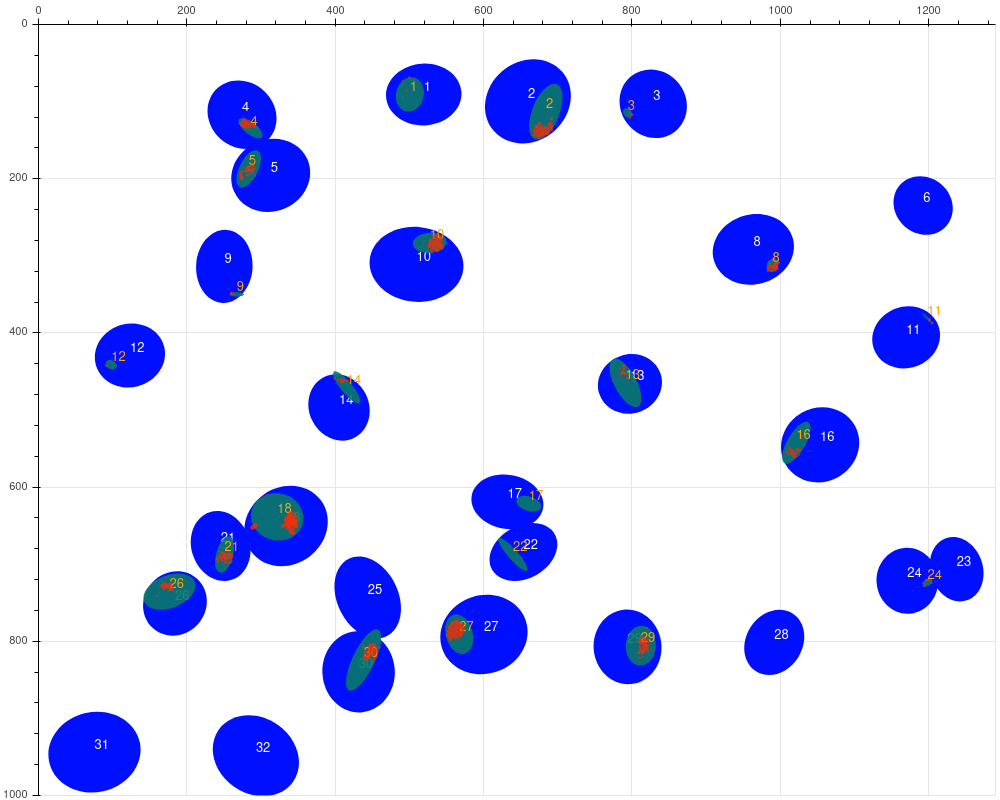
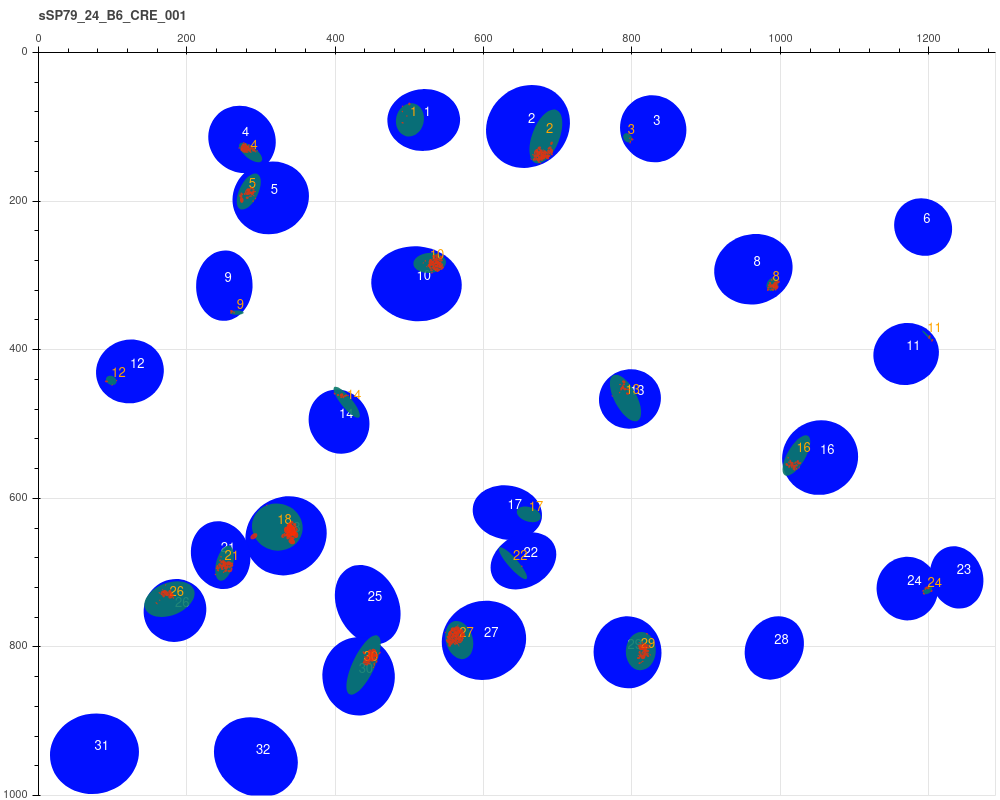
add image name to figure titles

diff --git a/puncta_counter/describe_puncta.py b/puncta_counter/describe_puncta.py
@@ -45,7 +45,7 @@ def parse_args(args=None):
     parser.add_argument("-a", "--algos", dest="algos", nargs='+',
     	                default=['confidence_ellipse',
     	                		 'min_vol_ellipse',
-    	                		 # 'circle',  # deprecated
+    	                		 'circle',  # deprecated
     	                		 ],
                         action="store", required=False, help="limit scope for testing")
 
@@ -134,6 +134,7 @@ def main(args=None):
                 nuclei=nuclei_subset.loc[(nuclei_subset['image_number']==image_number)],
                 ellipses=ellipses.loc[(ellipses['image_number']==image_number)],
                 puncta=puncta_subset.loc[(puncta_subset['image_number']==image_number)],
+                title=title
             )
 
             save_plot_as_png(plot, f"figures/confidence_ellipse/{title}.png")
@@ -154,6 +155,7 @@ def main(args=None):
                 nuclei=nuclei_subset.loc[(nuclei_subset['image_number']==image_number)],
                 ellipses=ellipses.loc[(ellipses['image_number']==image_number)],
                 puncta=puncta_subset.loc[(puncta_subset['image_number']==image_number)],
+                title=title
             )
 
             save_plot_as_png(plot, f"figures/min_vol_ellipse/{title}.png")
@@ -177,6 +179,7 @@ def main(args=None):
                 nuclei=nuclei_subset.loc[(nuclei_subset['image_number']==image_number)],
                 circles=circles.loc[(circles['image_number']==image_number)],
                 puncta=puncta_subset.loc[(puncta_subset['image_number']==image_number)],
+                title=title
             )
 
             save_plot_as_png(plot, f"figures/circle/{title}.png")
